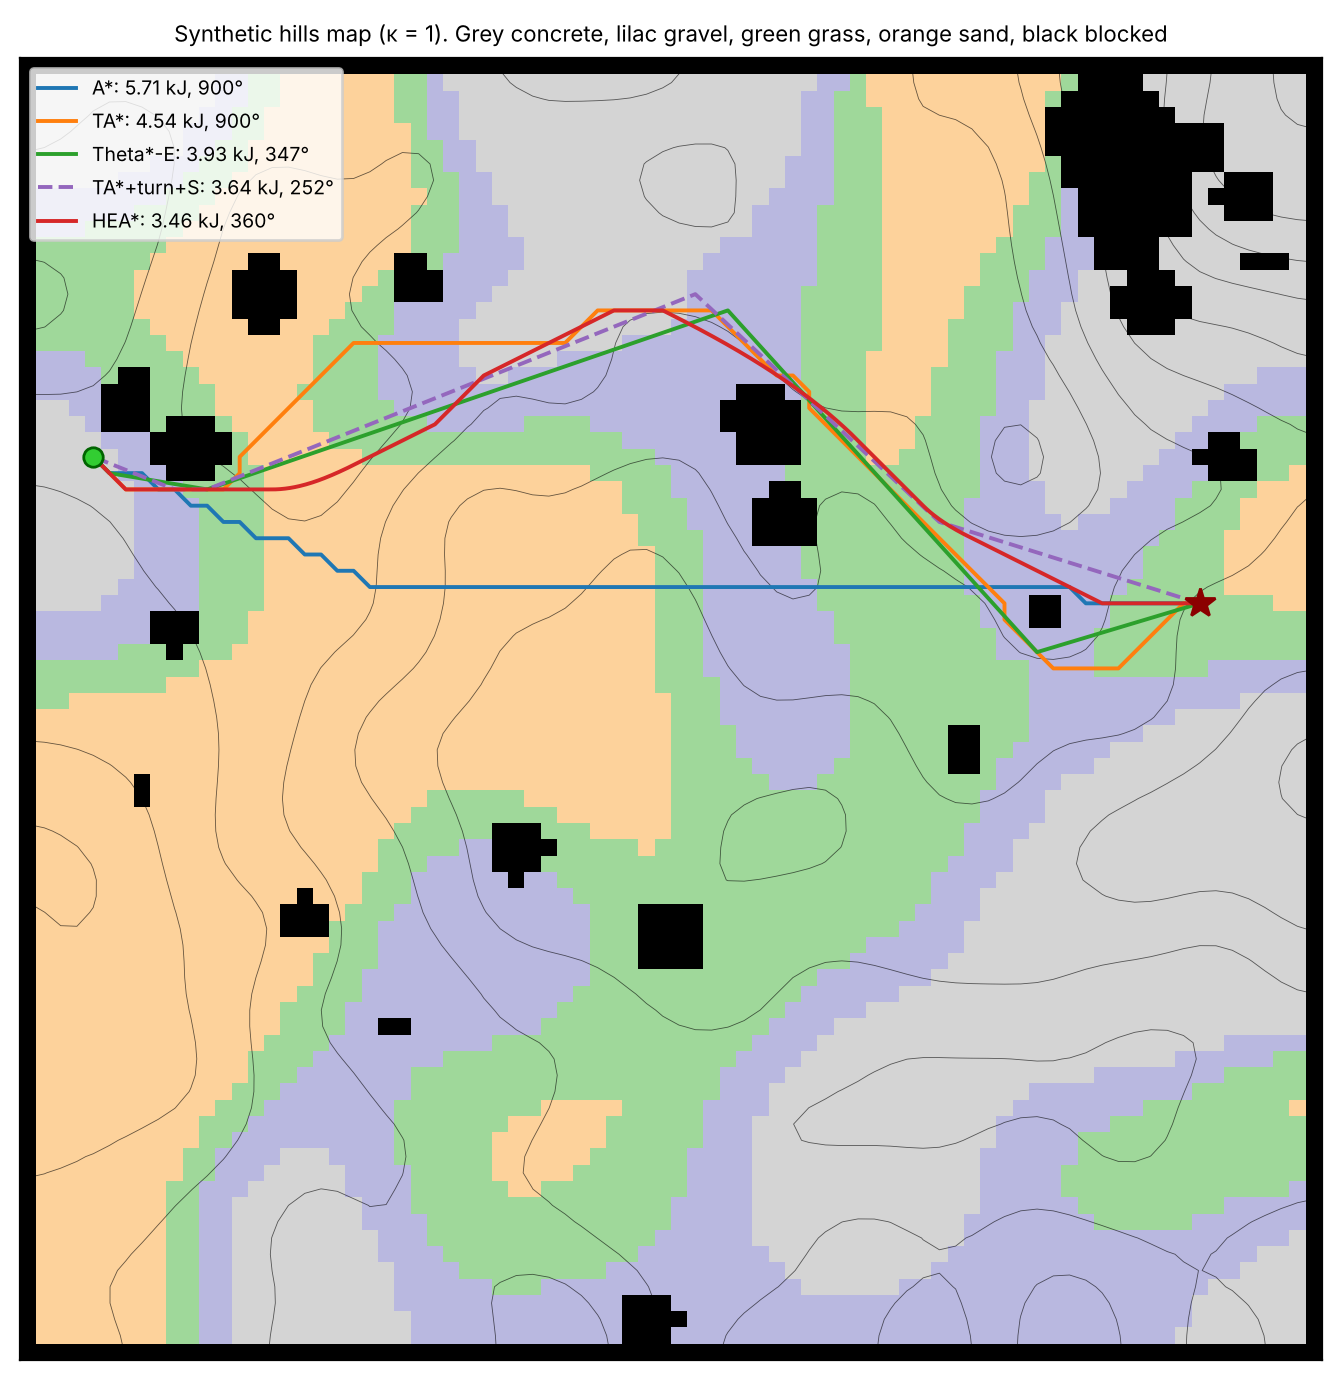
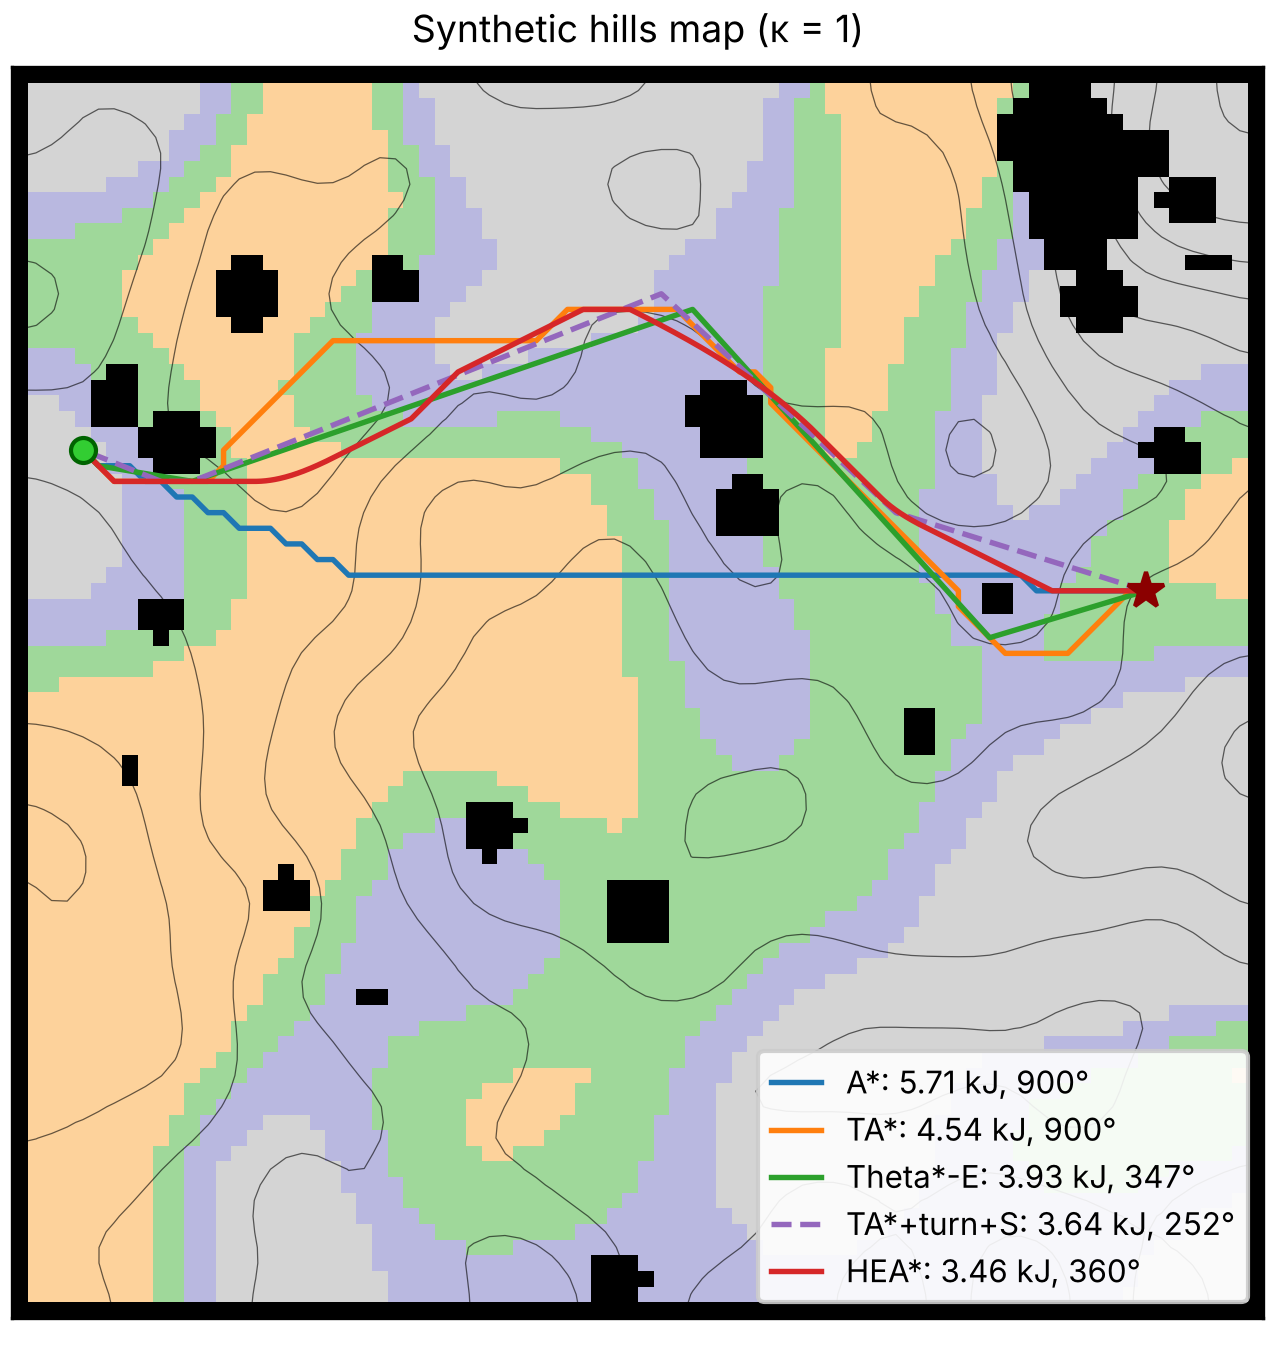
Figures 1, 5, 6, 7 drawn at the printed size with larger fonts; legends lower right
Figures are now drawn at the width at which the paper prints them (text width 5.67 in), so that
their fonts (7.5-9 pt) match the body text. Fig. 1 (overview diagram) is added to figures.py.
The results are unchanged.

Claude-Session: https://claude.ai/code/session_012ykMFqBufQToCQU8JKGr98

diff --git a/experiments/figures.py b/experiments/figures.py
@@ -1,4 +1,4 @@
-"""Figures 2, 3, 4, 5 and 7 of the paper (Fig. 6 is drawn by analyze_main.py).
+"""Figures 1, 2, 3, 4, 5 and 7 of the paper (Fig. 6 is drawn by analyze_main.py).
 
 Usage: python experiments/figures.py [--out figures] [--fig5 hills 0] [--fig7 hanksville 0]
 """
@@ -20,10 +20,41 @@ from heastar import planners as PL          # noqa: E402
 from heastar.energy import NOMINAL, SURFACES, arc_vs_point_ratio  # noqa: E402
 from heastar.lattice import make_primitives  # noqa: E402
 
+TEXT_W = 5.67   # text width of the Robotica template (in)
 SURF_COL = {"concrete": "#d4d4d4", "gravel": "#b9b8e0", "grass": "#9fd89a", "sand": "#fdd29b"}
 LINE_COL = {"concrete": "tab:blue", "grass": "tab:orange", "gravel": "tab:green", "sand": "tab:red"}
 PATH_STYLE = {"A*": ("tab:blue", "-"), "TA*": ("tab:orange", "-"), "Theta*-E": ("tab:green", "-"),
               "TA*+turn+S": ("tab:purple", "--"), "HEA*": ("tab:red", "-")}
+
+
+def fig1(out):
+    """Fig. 1: overview of the framework, drawn at the printed size (full text width)."""
+    from matplotlib.patches import FancyBboxPatch
+    boxes = [("Inputs", ["elevation map", "surface classes", "obstacles", "(C-space)", "robot parameters",
+                         "$m, B, L, \\eta$"]),
+             ("Energy model\n(Sec. 3)", ["rolling + grade", "turning moment", "$M(R)$", "inner-track", "braking (no",
+                                         "regeneration)"]),
+             ("Edge-cost tables\n(Sec. 4.2)", ["$E[h][p][x, y]$ for", "straight moves,", "4 arc sizes,",
+                                               "point turns"]),
+             ("HEA* search\n(Sec. 4.3\u20134.4)", ["state $(x, y, \\theta)$", "consistent energy", "heuristic"]),
+             ("Output", ["minimum-energy", "path within", "the lattice", "(straight, arcs,", "point turns)"])]
+    W, H = TEXT_W, 1.75
+    fig = plt.figure(figsize=(W, H))
+    ax = fig.add_axes([0, 0, 1, 1]); ax.set_xlim(0, W); ax.set_ylim(0, H); ax.set_axis_off()
+    n, gap = len(boxes), 0.17
+    bw = (W - 0.04 - gap * (n - 1)) / n
+    for i, (title, lines) in enumerate(boxes):
+        x0 = 0.02 + i * (bw + gap)
+        ax.add_patch(FancyBboxPatch((x0, 0.04), bw, H - 0.08, boxstyle="round,pad=0,rounding_size=0.05",
+                                    fc="#eef3fb", ec="#3a6fb0", lw=0.9))
+        ax.text(x0 + bw / 2, H - 0.13, title, ha="center", va="top", fontsize=7.8, fontweight="bold",
+                linespacing=1.15)
+        ax.text(x0 + bw / 2, 0.68, "\n".join(lines), ha="center", va="center", fontsize=7.5, linespacing=1.3)
+        if i < n - 1:
+            ax.annotate("", xy=(x0 + bw + gap - 0.01, H / 2), xytext=(x0 + bw + 0.01, H / 2),
+                        arrowprops=dict(arrowstyle="-|>", color="#3a6fb0", lw=1.0, mutation_scale=8))
+    fig.savefig(os.path.join(out, "fig1_overview.png"), dpi=300)
+    plt.close(fig)
 
 
 def fig2(out):
@@ -103,7 +134,7 @@ def draw_map(ax, tm):
     ax.set_yticks([])
 
 
-def draw_paths(ax, inst, model, planners=tuple(PATH_STYLE)):
+def draw_paths(ax, inst, model, planners=tuple(PATH_STYLE), legend_size=7.5):
     planned = PL.plan_all(inst, model, PL.build_lattices(inst, model), planners)
     res = PL.score(inst, planned, model)
     for name in planners:
@@ -112,34 +143,41 @@ def draw_paths(ax, inst, model, planners=tuple(PATH_STYLE)):
             continue
         Q = P.path_points(pl.elems)
         c, ls = PATH_STYLE[name]
-        ax.plot(Q[:, 0], Q[:, 1], color=c, ls=ls, lw=1.4,
+        ax.plot(Q[:, 0], Q[:, 1], color=c, ls=ls, lw=1.3,
                 label=f"{name}: {res[name]['energy'] / 1e3:.2f} kJ, {res[name]['rotation_deg']:.0f}°")
-    ax.plot(*inst.start, "*", color="darkred", ms=11)
-    ax.plot(*inst.goal, "o", color="limegreen", mec="darkgreen", ms=7)
-    ax.legend(fontsize=7, loc="upper left")
+    ax.plot(*inst.start, "*", color="darkred", ms=9)
+    ax.plot(*inst.goal, "o", color="limegreen", mec="darkgreen", ms=6)
+    ax.legend(fontsize=legend_size, loc="lower right", framealpha=0.9, borderpad=0.4, handlelength=1.6,
+              labelspacing=0.3)
+
+
+# Figures 1, 5, 6 and 7 are drawn at the size at which they are printed (text width 409.7 pt = 5.67 in),
+# so that their fonts (7.5-9 pt) match the body text: Fig. 5 at 0.75 of the text width, the others at full width.
 
 
 def fig5(out, kind="hills", idx=0):
     inst = I.synthetic(kind, idx)
-    fig, ax = plt.subplots(figsize=(7, 7))
+    w = 0.75 * TEXT_W
+    fig, ax = plt.subplots(figsize=(w, w + 0.25))
     draw_map(ax, inst.tm)
-    draw_paths(ax, inst, NOMINAL)
-    ax.set_title(f"Synthetic {kind} map (κ = 1). Grey concrete, lilac gravel, green grass, orange sand, black blocked",
-                 fontsize=8)
-    fig.tight_layout()
-    fig.savefig(os.path.join(out, "fig5_example_synthetic.png"), dpi=200, bbox_inches="tight")
+    draw_paths(ax, inst, NOMINAL, legend_size=7.5)
+    ax.set_title(f"Synthetic {kind} map (κ = 1)", fontsize=9)
+    fig.tight_layout(pad=0.3)
+    fig.savefig(os.path.join(out, "fig5_example_synthetic.png"), dpi=300, bbox_inches="tight", pad_inches=0.02)
     plt.close(fig)
 
 
 def fig7(out, region="hanksville", idx=0):
     a, b = I.dem(region, idx)
-    fig, axes = plt.subplots(1, 2, figsize=(13, 6.5))
+    name = {"hanksville": "Hanksville, UT", "mojave": "Mojave, CA", "palouse": "Palouse, WA",
+            "flinthills": "Flint Hills, KS"}.get(region, region)
+    fig, axes = plt.subplots(1, 2, figsize=(TEXT_W, TEXT_W / 2 + 0.2))
     for ax, inst, lab in ((axes[0], a, "synthetic surfaces"), (axes[1], b, "ESA WorldCover surfaces")):
         draw_map(ax, inst.tm)
-        draw_paths(ax, inst, NOMINAL)
-        ax.set_title(f"{region}, real elevation (κ = 1), {lab}", fontsize=9)
-    fig.tight_layout()
-    fig.savefig(os.path.join(out, "fig7_example_dem.png"), dpi=200, bbox_inches="tight")
+        draw_paths(ax, inst, NOMINAL, legend_size=6.5)
+        ax.set_title(f"{name}: {lab}", fontsize=8.5)
+    fig.tight_layout(pad=0.3, w_pad=0.6)
+    fig.savefig(os.path.join(out, "fig7_example_dem.png"), dpi=300, bbox_inches="tight", pad_inches=0.02)
     plt.close(fig)
 
 
@@ -148,10 +186,12 @@ if __name__ == "__main__":
     ap.add_argument("--out", default="figures")
     ap.add_argument("--fig5", nargs=2, default=["hills", "0"])
     ap.add_argument("--fig7", nargs=2, default=["hanksville", "0"])
-    ap.add_argument("--only", nargs="*", default=None, help="subset of 2 3 4 5 7")
+    ap.add_argument("--only", nargs="*", default=None, help="subset of 1 2 3 4 5 7")
     a = ap.parse_args()
     os.makedirs(a.out, exist_ok=True)
-    todo = set(a.only or ["2", "3", "4", "5", "7"])
+    todo = set(a.only or ["1", "2", "3", "4", "5", "7"])
+    if "1" in todo:
+        fig1(a.out)
     if "2" in todo:
         fig2(a.out)
     if "3" in todo:

diff --git a/experiments/analyze_main.py b/experiments/analyze_main.py
@@ -217,7 +217,8 @@ def fig6(E, figs):
     matplotlib.use("Agg")
     import matplotlib.pyplot as plt
     os.makedirs(figs, exist_ok=True)
-    fig, axes = plt.subplots(1, 3, figsize=(13, 4.2), sharey=True)
+    # drawn at the printed size (full text width, 5.67 in) so that the fonts match the body text
+    fig, axes = plt.subplots(1, 3, figsize=(5.67, 2.7), sharey=True)
     bases = ("TA*", "TA*+S", "Theta*-E", "TA*+turn+S")
     for ax, (data, label) in zip(axes, DATA):
         if data not in E.index.get_level_values(0):
@@ -227,18 +228,22 @@ def fig6(E, figs):
             sub = E.xs((data, kappa), level=("data", "kappa"))
             vals = [((sub["HEA*"] - sub[b]) / sub[b] * 100)[sub[b] > 0].dropna() for b in bases]
             pos = np.arange(len(bases)) * 3 + j
-            bp = ax.boxplot(vals, positions=pos, widths=0.8, showfliers=False, patch_artist=True)
+            bp = ax.boxplot(vals, positions=pos, widths=0.8, showfliers=False, patch_artist=True,
+                            medianprops=dict(color="k", lw=1), boxprops=dict(lw=0.7),
+                            whiskerprops=dict(lw=0.7), capprops=dict(lw=0.7))
             for b in bp["boxes"]:
                 b.set_facecolor(("#7fb2d9", "#e8868a")[j])
             ax.plot([], [], "s", color=("#7fb2d9", "#e8868a")[j], label=f"κ = {kappa:g}")
         ax.axhline(0, color="k", lw=0.6)
         ax.set_xticks(np.arange(len(bases)) * 3 + 0.5)
-        ax.set_xticklabels([f"vs {b}" for b in bases], rotation=20)
-        ax.set_title(f"{label} ({n})", fontsize=10)
-    axes[0].set_ylabel("energy change of HEA* (%)")
-    axes[0].legend(loc="lower right")
-    fig.tight_layout()
-    fig.savefig(os.path.join(figs, "fig6_energy_change.png"), dpi=200, bbox_inches="tight")
+        ax.set_xticklabels([f"vs {b}" for b in bases], rotation=35, ha="right", fontsize=7.5)
+        ax.tick_params(axis="y", labelsize=7.5)
+        ax.set_title(f"{label.replace('DEM, ', 'DEM, ').replace('WorldCover surfaces', 'WorldCover')}\n({n} instances)",
+                     fontsize=8)
+    axes[0].set_ylabel("energy change of HEA* (%)", fontsize=8)
+    axes[0].legend(loc="lower right", fontsize=7.5, handletextpad=0.2, borderpad=0.3)
+    fig.tight_layout(pad=0.3, w_pad=0.5)
+    fig.savefig(os.path.join(figs, "fig6_energy_change.png"), dpi=300)
     print(f"saved {figs}/fig6_energy_change.png")
 
 
